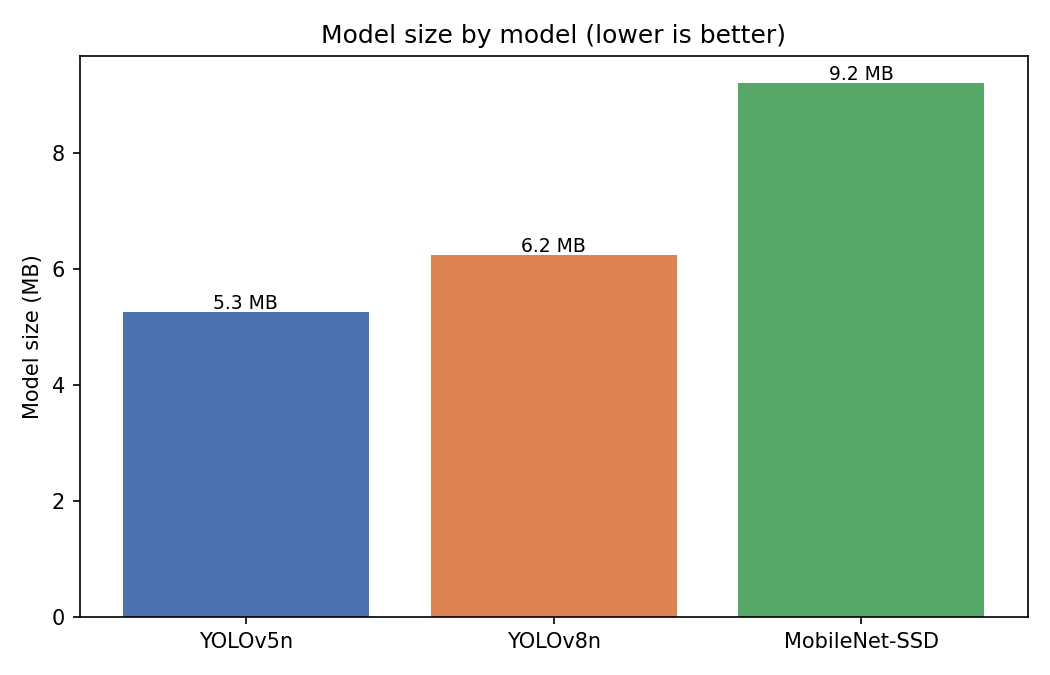
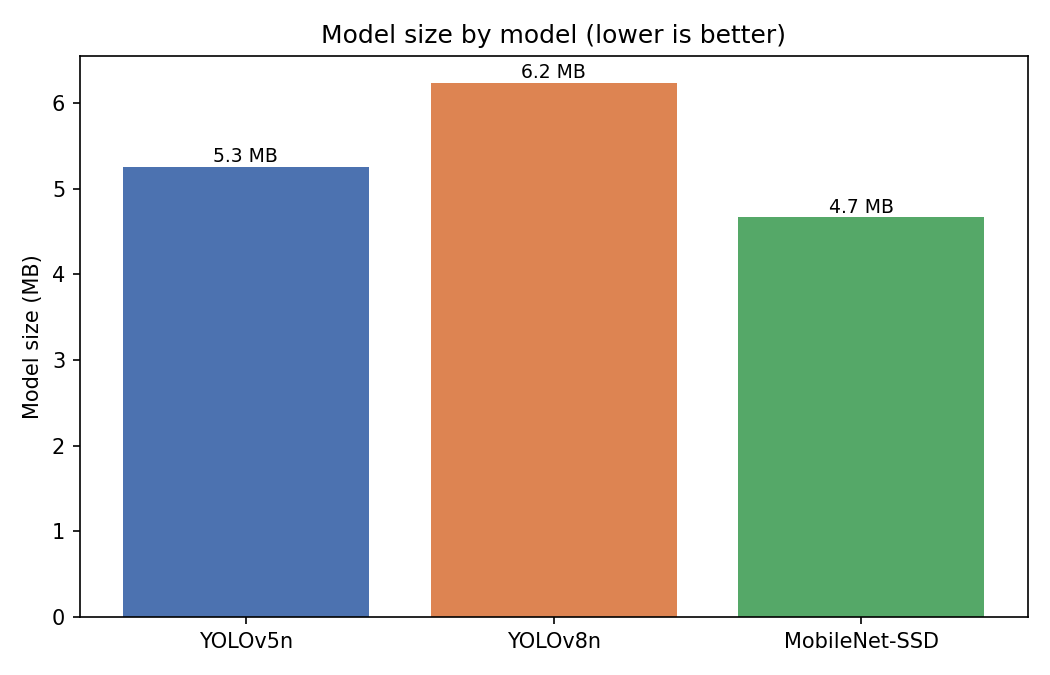
final results: updated charts and comparison with float16 MobileNet-SSD

diff --git a/results/figures/summary_table.md b/results/figures/summary_table.md
@@ -1,5 +1,5 @@
 | Model | mAP@0.5 | mAP@0.5:0.95 | Speed (ms/img) | Size (MB) |
 |-------|---------|--------------|----------------|-----------|
-| YOLOv5n | 0.925 | 0.703 | 13.85 | 5.3 |
-| YOLOv8n | 0.907 | 0.708 | 12.67 | 6.2 |
-| MobileNet-SSD | 0.738 | 0.482 | 8.52 | 9.2 |
+| YOLOv5n | 0.925 | 0.703 | 13.46 | 5.3 |
+| YOLOv8n | 0.907 | 0.708 | 12.30 | 6.2 |
+| MobileNet-SSD | 0.748 | 0.458 | 8.30 | 4.7 |
